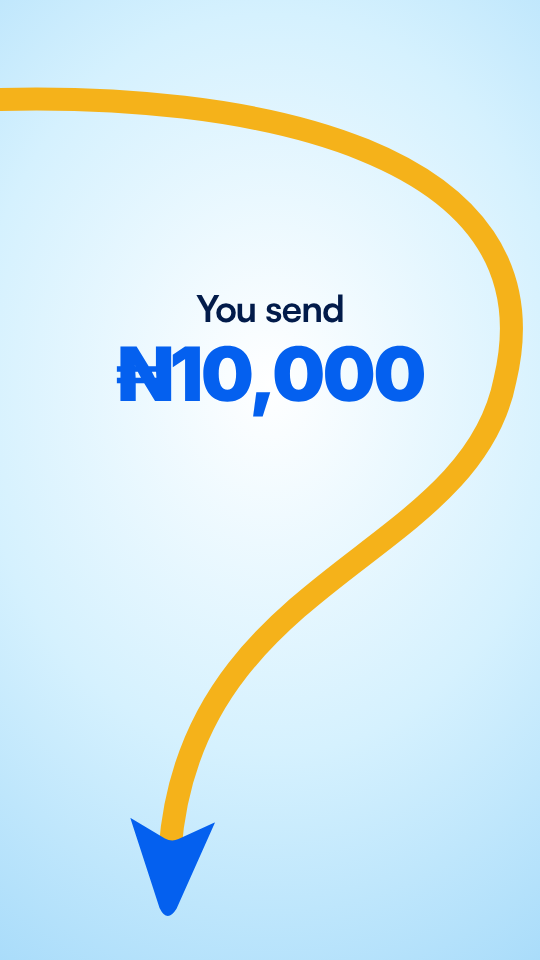
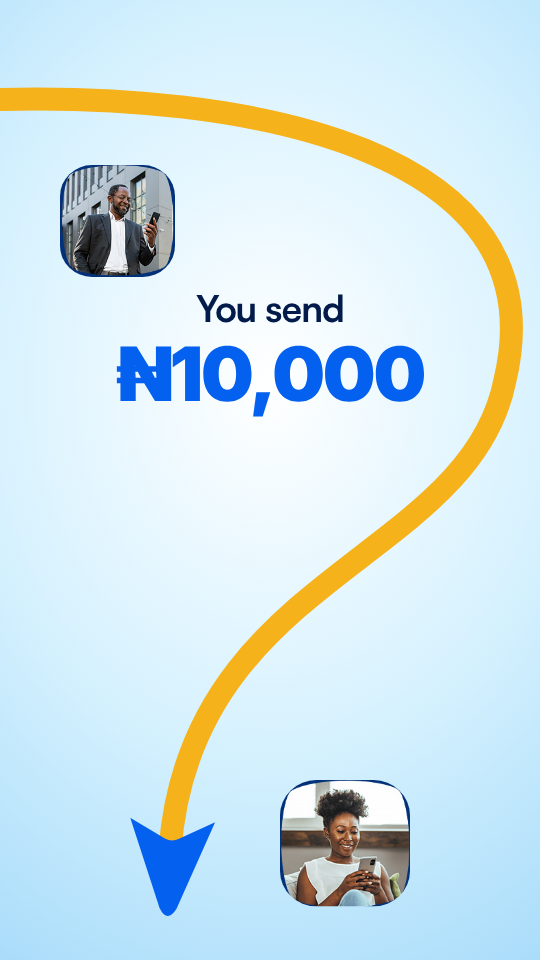
Moniepoint: storyboard extended to 12 beats / 42 s with card, savings, bills, cashback and people
Claude-Session: https://claude.ai/code/session_01U1wSaNYX9KEiXteEpjcsEr

Changed region(s): [[0.5037, 0.8125, 0.7704, 0.9688], [0.0889, 0.1562, 0.3259, 0.3125]]

diff --git a/videos/moniepoint/board/beat.html b/videos/moniepoint/board/beat.html
@@ -42,7 +42,7 @@ svg.dart{position:absolute}
 <div class="f sky" id="b4">
   <svg style="position:absolute;left:0;top:0" width="1080" height="1920"><path d="M-40 200 C500 180 1120 300 1010 760 C940 1120 380 1150 340 1700" stroke="#F5B21A" stroke-width="46" fill="none" stroke-linecap="round"/></svg>
   <svg class="dart" style="left:255px;top:1640px;transform:rotate(183deg)" width="170" height="204" viewBox="0 0 100 120"><path d="M0 120 L42 98 Q50 94 58 98 L100 120 L60 16 Q50 -2 40 16 Z" fill="#0460EF"/></svg>
-  <h2 style="margin-top:-520px">You send</h2><h1 style="font-size:150px;margin-top:16px;font-family:Inter,S;font-weight:900" class="bl">₦10,000</h1>
+  <img src="../assets/p_sender.png" style="position:absolute;left:120px;top:330px;width:230px;border-radius:28%"><img src="../assets/p_receiver.png" style="position:absolute;left:560px;top:1560px;width:260px;border-radius:28%"><h2 style="margin-top:-520px">You send</h2><h1 style="font-size:150px;margin-top:16px;font-family:Inter,S;font-weight:900" class="bl">₦10,000</h1>
 </div>
 <!-- 5 the landing -->
 <div class="f blue" id="b5">
@@ -55,11 +55,39 @@ svg.dart{position:absolute}
   <div style="position:absolute;top:300px;width:760px;height:236px;overflow:hidden;border-radius:28px;box-shadow:0 30px 70px rgba(2,27,74,.18)"><img src="../assets/receipt_card.png" style="position:absolute;width:1500px;left:-118px;top:-925px"></div>
   <h1 style="font-size:300px;margin-top:120px" class="bl">99.9%</h1><h2 style="margin-top:10px">reliable transfers</h2>
 </div>
-<!-- 7 close -->
-<div class="f blue" id="b7">
-  <svg style="position:absolute;left:0;top:0" width="1080" height="1920"><path d="M-60 1500 C300 1300 800 1700 1140 1380" stroke="#E5A50A" stroke-width="60" fill="none"/></svg>
-  <h2 style="font-size:84px">Transfers that never<br>leave you <span style="color:#FFD25A">stranded.</span></h2>
-  <img src="../assets/icon.png" style="width:230px;border-radius:52px;margin-top:130px;box-shadow:0 30px 70px rgba(1,14,43,.35)">
-  <h2 style="margin-top:44px;font-weight:900">Moniepoint</h2><div style="font:700 46px S;margin-top:16px;opacity:.92">Banking that simply works.</div>
+<!-- 7 bridge -->
+<div class="f sky" id="b7">
+  <svg style="position:absolute;left:0;top:0" width="1080" height="1920"><path d="M-60 1300 C300 1500 700 1100 1140 1250" stroke="#F5B21A" stroke-width="46" fill="none" stroke-linecap="round"/></svg>
+  <svg class="dart" style="left:820px;top:1130px;transform:rotate(75deg)" width="170" height="204" viewBox="0 0 100 120"><path d="M0 120 L42 98 Q50 94 58 98 L100 120 L60 16 Q50 -2 40 16 Z" fill="#0460EF"/></svg>
+  <h1 style="margin-top:-300px;font-size:120px">And that's<br>just <span class="bl">the start.</span></h1>
+</div>
+<!-- 8 card -->
+<div class="f sky" id="b8" style="background:#D5F1FE">
+  <img src="../assets/p_card.png" style="position:absolute;left:0;bottom:0;width:1080px">
+  <h2 style="position:absolute;top:150px;font-size:86px">A card at your door<br>in <span class="bl" style="font-weight:900">48 hours</span></h2>
+</div>
+<!-- 9 savings -->
+<div class="f dark" id="b9">
+  <img src="../assets/ui_save.png" style="position:absolute;left:150px;top:-60px;width:780px;border-radius:0 0 70px 70px;box-shadow:0 40px 100px rgba(0,0,0,.5)">
+  <h2 style="position:absolute;top:1440px;font-size:80px">Save and earn up to</h2>
+  <h1 style="position:absolute;top:1540px;font-size:230px" class="cy">20%</h1>
+</div>
+<!-- 10 bills and airtime -->
+<div class="f sky" id="b10">
+  <h2 style="position:absolute;top:150px;font-size:92px;font-weight:900">Bills. Airtime. Data.</h2><h2 style="position:absolute;top:270px" class="bl">In seconds.</h2>
+  <img src="../assets/ui_bills.png" style="position:absolute;left:70px;top:520px;width:640px;border-radius:28px;box-shadow:0 30px 80px rgba(2,27,74,.22)">
+  <img src="../assets/ui_airtime.png" style="position:absolute;left:400px;top:960px;width:620px;border-radius:28px;box-shadow:0 30px 80px rgba(2,27,74,.28)">
+</div>
+<!-- 11 cashback -->
+<div class="f dark" id="b11">
+  <svg style="position:absolute;left:0;top:0" width="1080" height="1920"><path d="M-60 1500 C300 1250 700 1650 1140 1350" stroke="#F5B21A" stroke-width="46" fill="none" stroke-linecap="round"/></svg>
+  <h2 style="position:absolute;top:330px;font-size:92px"><span class="cy">Daily cashback.</span><br>Weekly rewards.</h2>
+  <img src="../assets/ui_rewards.png" style="position:absolute;left:60px;top:760px;width:960px;border-radius:30px;box-shadow:0 40px 100px rgba(0,0,0,.5)">
+</div>
+<!-- 12 close -->
+<div class="f sky" id="b12" style="background:#D5F1FE">
+  <img src="../assets/p_phone.png" style="position:absolute;left:0;bottom:0;width:1080px">
+  <img src="../assets/icon.png" style="position:absolute;top:130px;width:170px;border-radius:40px;box-shadow:0 24px 60px rgba(1,14,43,.35)">
+  <h1 style="position:absolute;top:330px;font-size:104px">Banking that<br><span class="bl">simply works.</span></h1>
 </div>
 <script>document.getElementById('b'+(new URLSearchParams(location.search).get('b')||1)).style.display='flex'</script>
